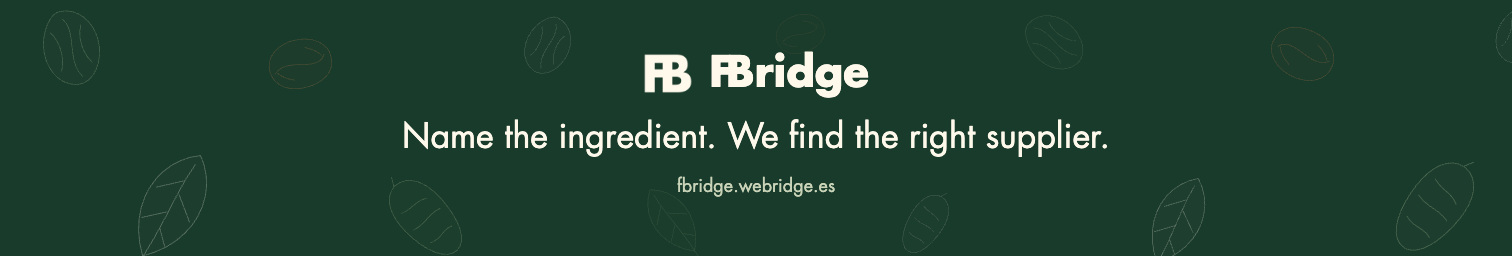
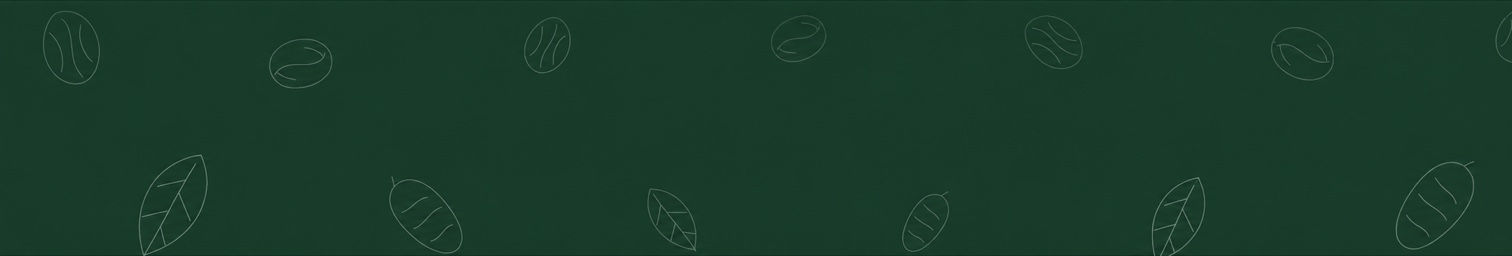
Simplify FBridge LinkedIn covers

diff --git a/README.md b/README.md
@@ -22,7 +22,7 @@ The first screen should say one thing clearly: FBridge finds ingredient supplier
 
 The ingredient gallery uses a consistent set of original, AI-generated editorial photographs for cocoa powder, cacao nibs, green coffee, black tea, matcha and dates.
 
-The LinkedIn covers in `assets/social/` extend the opening visual system with the same deep-green field, cream Futura copy and line drawings of cocoa, coffee, dates and matcha. The Page cover keeps key content centered for responsive cropping, while the profile banner keeps it clear of the profile-photo area.
+The LinkedIn covers in `assets/social/` use only the deep-green field and restrained line drawings of cocoa, coffee, dates and matcha. Keep both covers free of text, logos, monograms, URLs and other marks.
 
 Keep the public copy short. Do not add named retailers, German-market positioning, country lists, long supplier checklists or repeated explanations of the same offer. The intended page order is the opening, ingredient gallery, one short process section, request form, compact parent-company origin section and legal footer.
 
